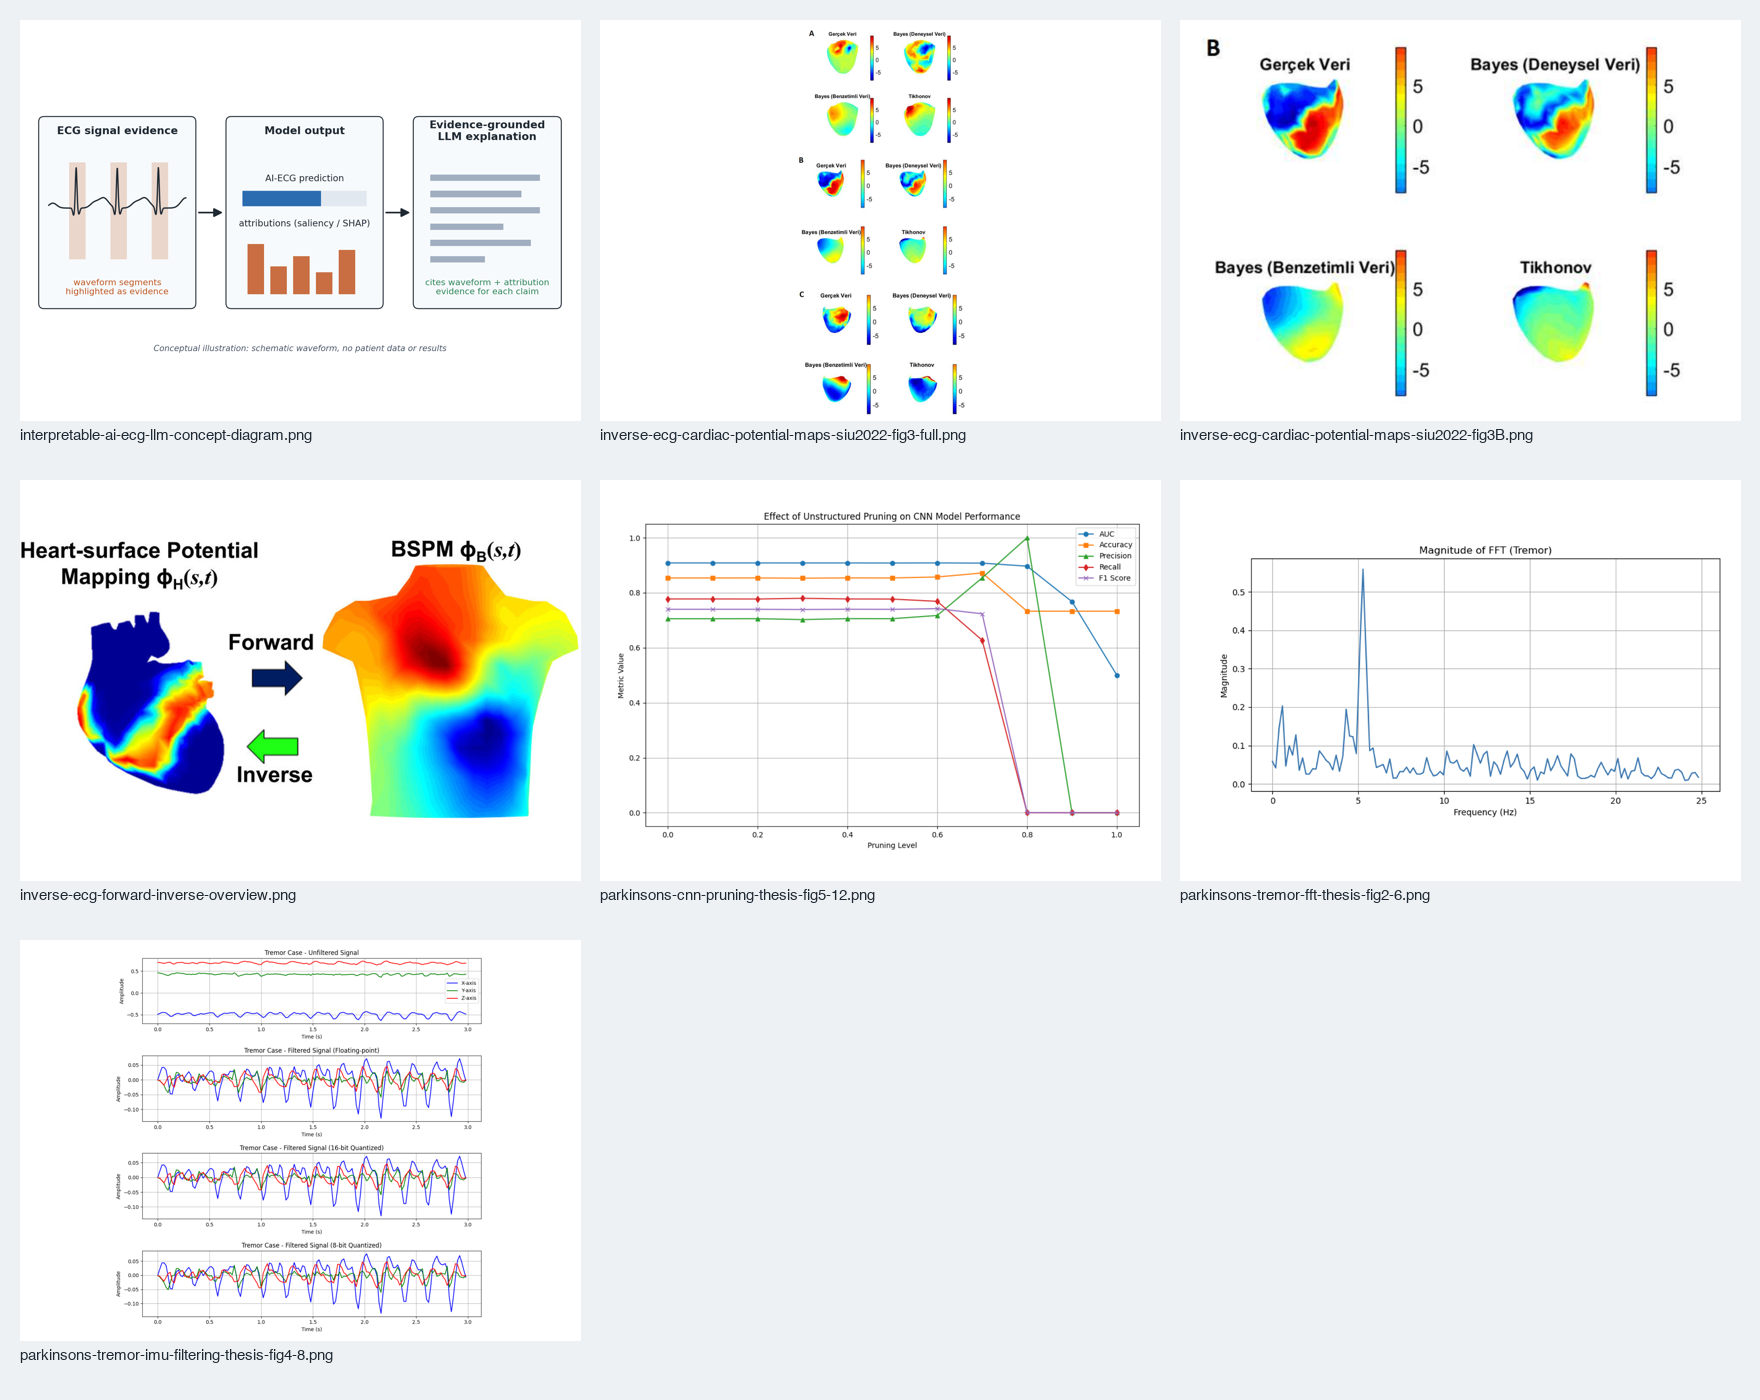
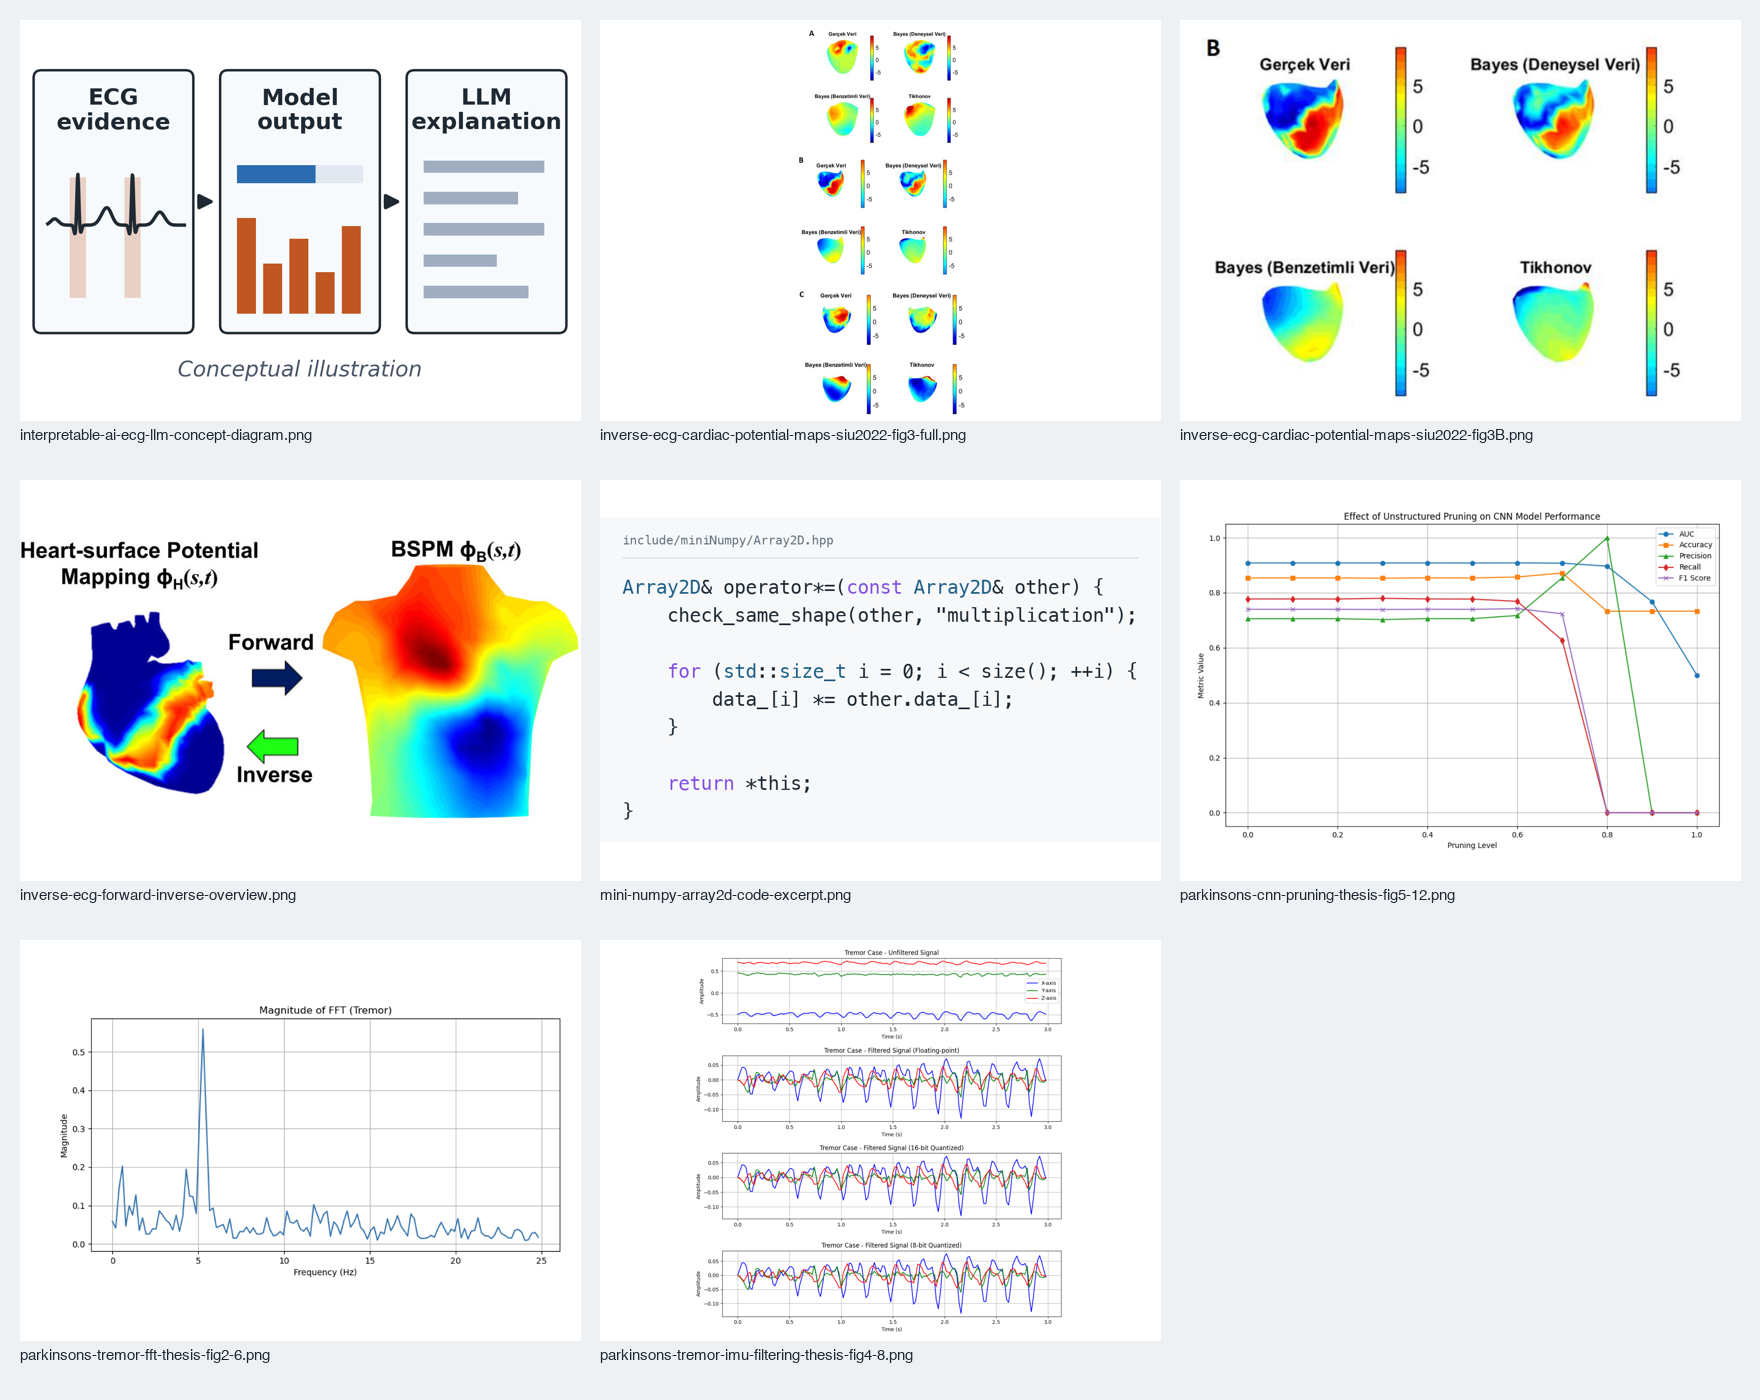
Add visuals to selected work

diff --git a/_sass/custom/custom.scss b/_sass/custom/custom.scss
@@ -263,11 +263,66 @@ body,
 }
 
 .work-item {
-  margin-top: 1.35rem;
+  align-items: flex-start;
+  display: flex;
+  gap: 1.5rem;
+  margin-top: 2rem;
 }
 
 .work-item:first-child {
   margin-top: 0;
+}
+
+.work-item__media {
+  flex: 0 0 200px;
+  margin: 0;
+  width: 200px;
+}
+
+.work-item__media img {
+  background: #ffffff;
+  border: 1px solid var(--line);
+  border-radius: 3px;
+  box-sizing: border-box;
+  display: block;
+  height: 130px;
+  object-fit: contain;
+  padding: 4px;
+  width: 100%;
+}
+
+.work-item__media--code img {
+  padding: 0;
+}
+
+.work-item__media figcaption {
+  color: var(--muted);
+  font-size: 0.72rem;
+  line-height: 1.4;
+  margin-top: 0.35rem;
+}
+
+.work-item__body {
+  flex: 1 1 auto;
+  min-width: 0;
+}
+
+@media (max-width: 600px) {
+  .work-item {
+    flex-direction: column;
+    gap: 0.9rem;
+  }
+
+  .work-item__media {
+    flex-basis: auto;
+    max-width: 320px;
+    width: 100%;
+  }
+
+  .work-item__media img {
+    height: auto;
+    max-height: 220px;
+  }
 }
 
 .work-item h3 {

diff --git a/_pages/index.md b/_pages/index.md
@@ -19,23 +19,36 @@ excerpt: "PhD student at the University of Pittsburgh working on machine learnin
   <h2>Selected Work</h2>
   <div class="work-list">
     <div class="work-item">
-      <h3>Interpretable AI-ECG with LLMs</h3>
-      <p>At the University of Pittsburgh's Signal Processing and Statistical Learning Lab, I am developing evidence-grounded LLM pipelines that turn AI-ECG predictions into clinically interpretable explanations by combining model outputs with ECG waveform evidence, saliency maps, and SHAP attributions. This work has led to a U.S. provisional patent application.</p>
+      <figure class="work-item__media work-item__media--wide"><img src="/assets/images/projects/interpretable-ai-ecg-llm-concept-diagram.png" alt="Conceptual illustration, not experimental data: ECG signal evidence feeds model output (prediction and attributions), which feeds an LLM explanation." loading="lazy"></figure>
+      <div class="work-item__body">
+        <h3>Interpretable AI-ECG with LLMs</h3>
+        <p>I develop evidence-grounded LLM pipelines for interpreting AI-ECG predictions, combining waveform evidence, model outputs, and saliency/SHAP attributions. This work has led to a U.S. provisional patent application.</p>
+        
+      </div>
     </div>
     <div class="work-item">
-      <h3>Real-Time Parkinson's Tremor Detection</h3>
-      <p>At Fraunhofer IIS, I developed a real-time tremor detection pipeline from wrist-worn IMU data for wearable assistive systems. I benchmarked signal-processing and machine-learning approaches and developed a lightweight 1D CNN that achieved approximately 0.91 AUC on unseen subjects. 8-bit quantization reduced the model size by approximately 75% with negligible performance loss.</p>
-      <p class="work-item__links"><a href="https://doi.org/10.1109/MLSP62443.2025.11204316" target="_blank" rel="noopener">Paper</a> · <a href="/assets/docs/Master_s_Thesis_Ege_Ozkoc.pdf" target="_blank" rel="noopener">Thesis</a></p>
+      <figure class="work-item__media "><img src="/assets/images/projects/parkinsons-tremor-fft-thesis-fig2-6.png" alt="Magnitude of the FFT of a wrist accelerometer recording of a tremor, with a dominant peak near 5 Hz." loading="lazy"><figcaption>Figure from the author's master's thesis.</figcaption></figure>
+      <div class="work-item__body">
+        <h3>Real-Time Parkinson's Tremor Detection</h3>
+        <p>At Fraunhofer IIS, I developed a lightweight 1D CNN for Parkinson's tremor detection using wrist-worn IMU data. It achieved approximately 0.91 AUC on unseen subjects, while 8-bit quantization reduced model size by approximately 75% with negligible performance loss.</p>
+        <p class="work-item__links"><a href="https://doi.org/10.1109/MLSP62443.2025.11204316" target="_blank" rel="noopener">Paper</a> · <a href="/assets/docs/Master_s_Thesis_Ege_Ozkoc.pdf" target="_blank" rel="noopener">Thesis</a></p>
+      </div>
     </div>
     <div class="work-item">
-      <h3>Bayesian Inverse ECG Reconstruction</h3>
-      <p>At METU's Heart Research Laboratory, I worked on noninvasive electrocardiographic imaging using Bayesian MAP estimation. I developed and evaluated prior models from measured and simulated cardiac data and worked on registration and interpolation across heart geometries. The work resulted in two peer-reviewed conference publications.</p>
-      <p class="work-item__links"><a href="https://doi.org/10.1109/SIU55565.2022.9864708" target="_blank" rel="noopener">2022 paper</a> · <a href="https://doi.org/10.23919/Measurement52780.2021.9446831" target="_blank" rel="noopener">2021 paper</a></p>
+      <figure class="work-item__media "><img src="/assets/images/projects/inverse-ecg-forward-inverse-overview.png" alt="Illustration of the forward and inverse ECG problems: heart-surface potential map on the left, body-surface potential map on the right." loading="lazy"></figure>
+      <div class="work-item__body">
+        <h3>Bayesian Inverse ECG Reconstruction</h3>
+        <p>I used Bayesian MAP estimation to reconstruct cardiac electrical activity from body-surface measurements, evaluating prior models derived from measured and simulated data. This work resulted in two peer-reviewed conference publications.</p>
+        <p class="work-item__links"><a href="https://doi.org/10.1109/SIU55565.2022.9864708" target="_blank" rel="noopener">2022 paper</a> · <a href="https://doi.org/10.23919/Measurement52780.2021.9446831" target="_blank" rel="noopener">2021 paper</a></p>
+      </div>
     </div>
     <div class="work-item">
-      <h3>ML Systems &amp; Open Source</h3>
-      <p>I also build ML systems and implementations to understand the stack beyond high-level model APIs. Recent work includes a NumPy/SciPy deep-learning framework with manually implemented forward and backward passes, a NumPy-like N-dimensional array library in modern C++, a fully offline Whisper/MLX macOS dictation app, and merged contributions to bitsandbytes.</p>
-      <p class="work-item__links"><a href="https://github.com/egeozkoc/deep-learning-from-scratch" target="_blank" rel="noopener">deep-learning-from-scratch</a> · <a href="https://github.com/egeozkoc/mini-numpy" target="_blank" rel="noopener">mini-numpy</a> · <a href="https://github.com/egeozkoc/murmur" target="_blank" rel="noopener">murmur</a> · <a href="https://github.com/bitsandbytes-foundation/bitsandbytes/pulls?q=is%3Apr+author%3Aegeozkoc" target="_blank" rel="noopener">bitsandbytes contributions</a></p>
+      <figure class="work-item__media work-item__media--code"><img src="/assets/images/projects/mini-numpy-array2d-code-excerpt.png" alt="C++ source excerpt from mini-numpy: the element-wise in-place multiplication operator of the Array2D class." loading="lazy"><figcaption>Excerpt from mini-numpy (Array2D.hpp).</figcaption></figure>
+      <div class="work-item__body">
+        <h3>ML Systems &amp; Open Source</h3>
+        <p>I build ML systems and implementations beyond high-level model APIs, including a deep-learning framework from scratch, a C++ array library, offline Whisper dictation using MLX, and merged bitsandbytes contributions.</p>
+        <p class="work-item__links"><a href="https://github.com/egeozkoc/deep-learning-from-scratch" target="_blank" rel="noopener">deep-learning-from-scratch</a> · <a href="https://github.com/egeozkoc/mini-numpy" target="_blank" rel="noopener">mini-numpy</a> · <a href="https://github.com/egeozkoc/murmur" target="_blank" rel="noopener">murmur</a> · <a href="https://github.com/bitsandbytes-foundation/bitsandbytes/pulls?q=is%3Apr+author%3Aegeozkoc" target="_blank" rel="noopener">bitsandbytes contributions</a></p>
+      </div>
     </div>
   </div>
 </section>
